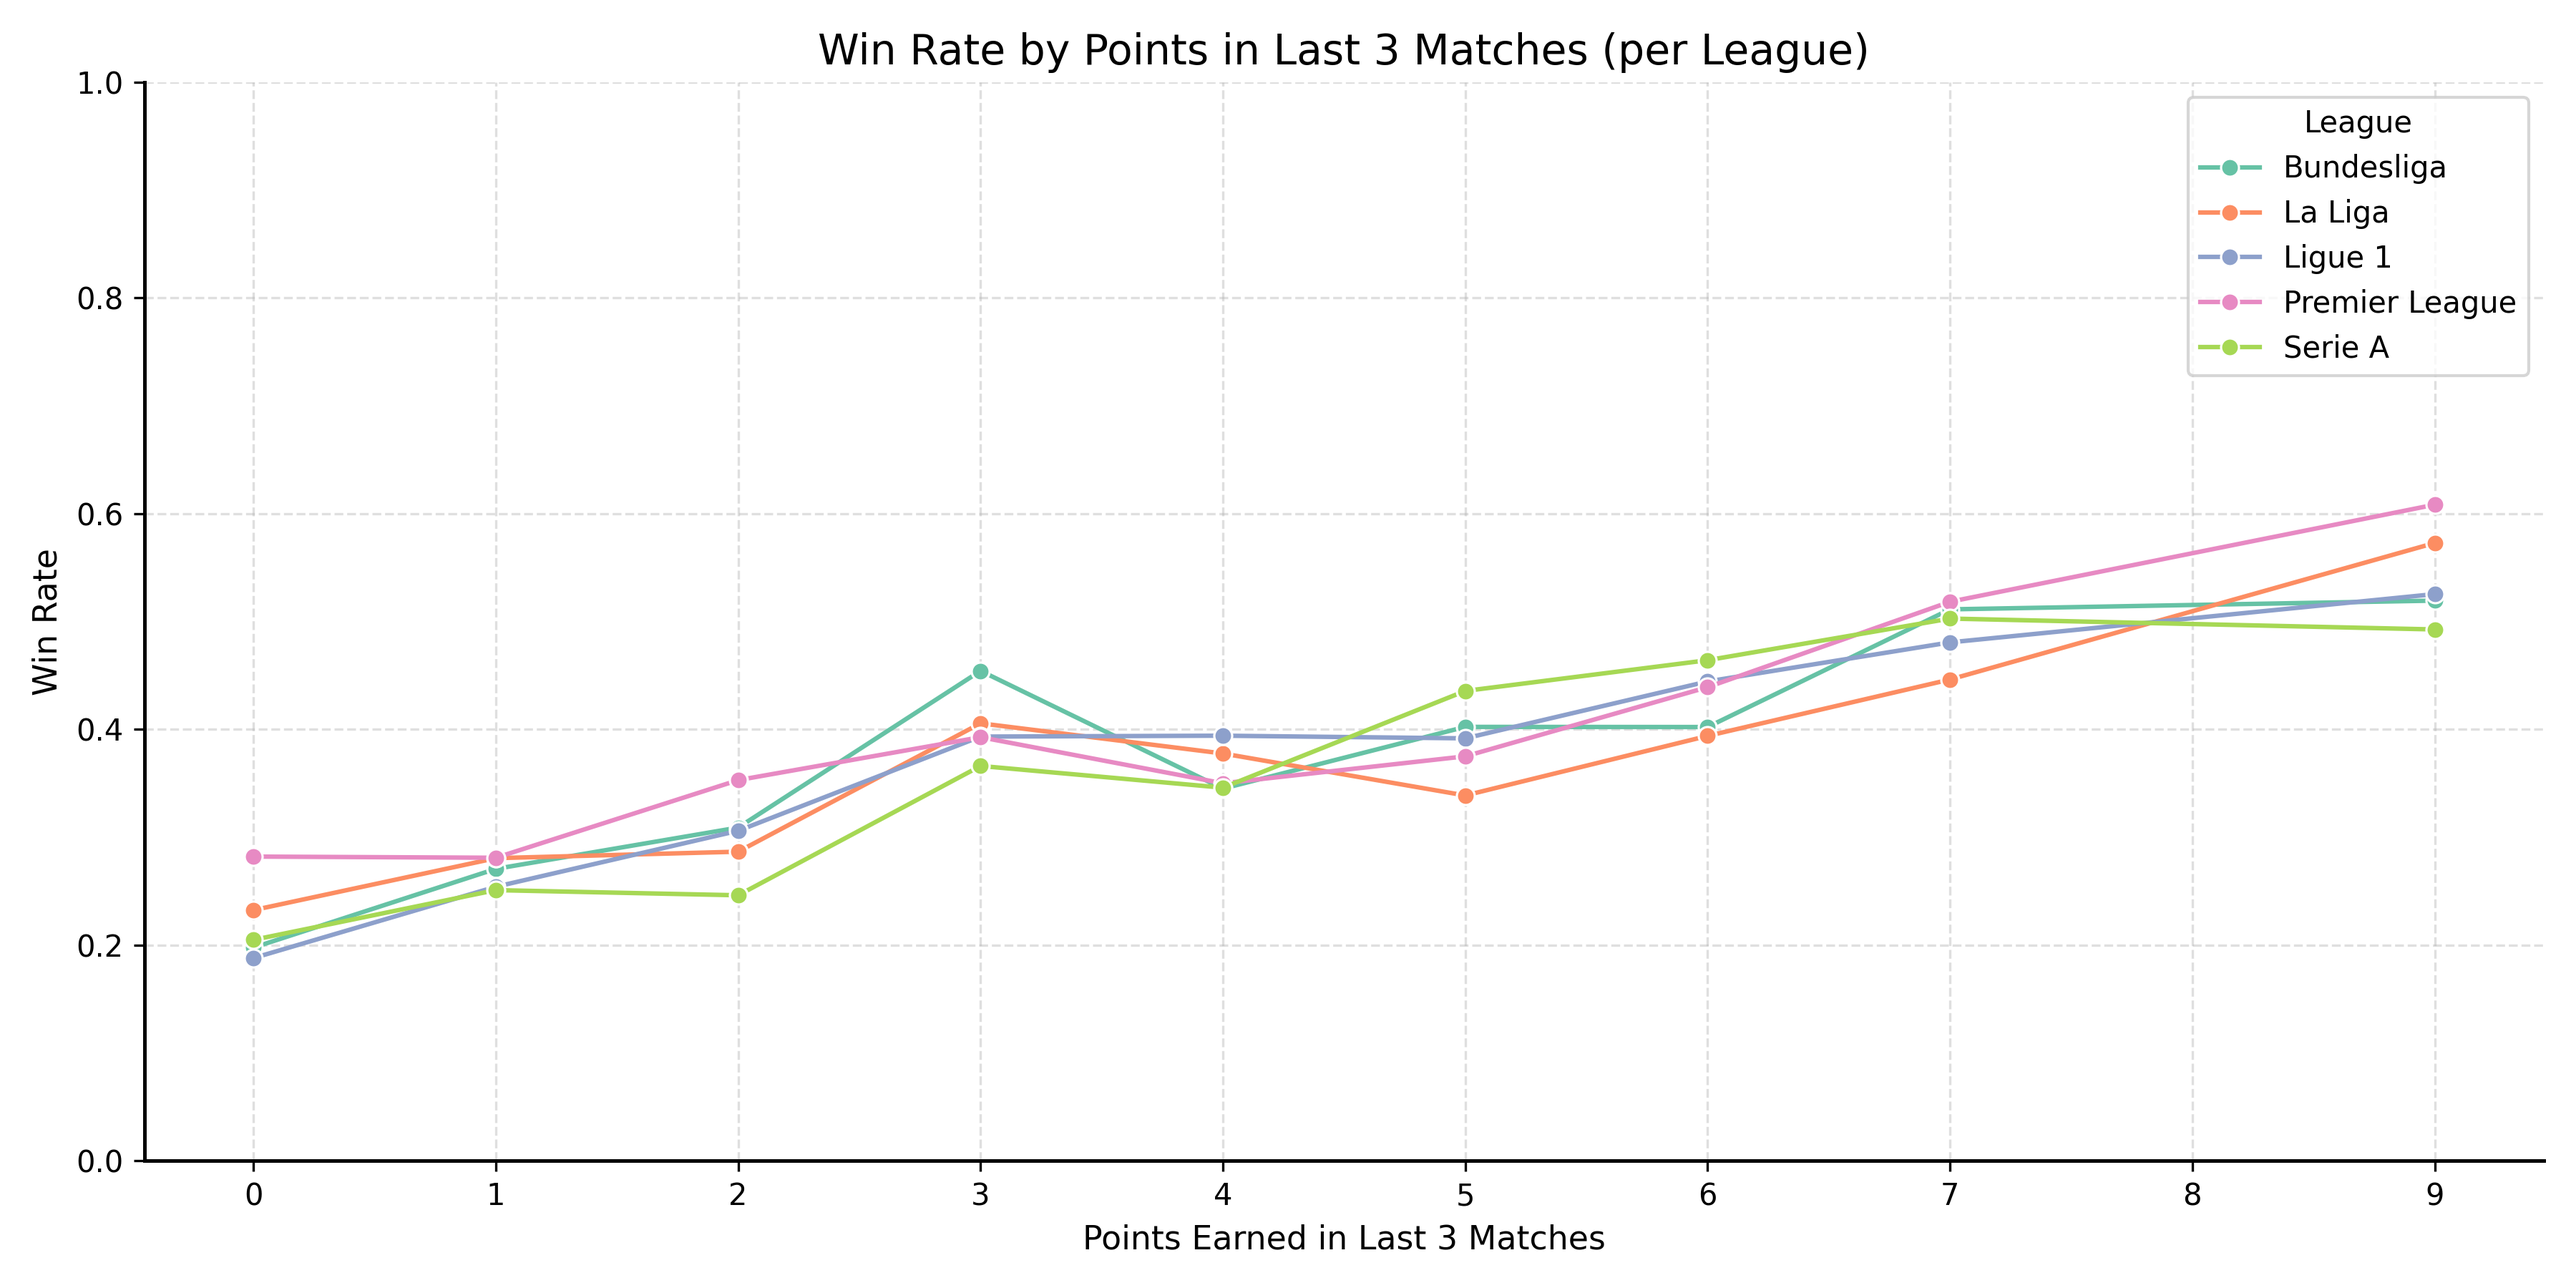
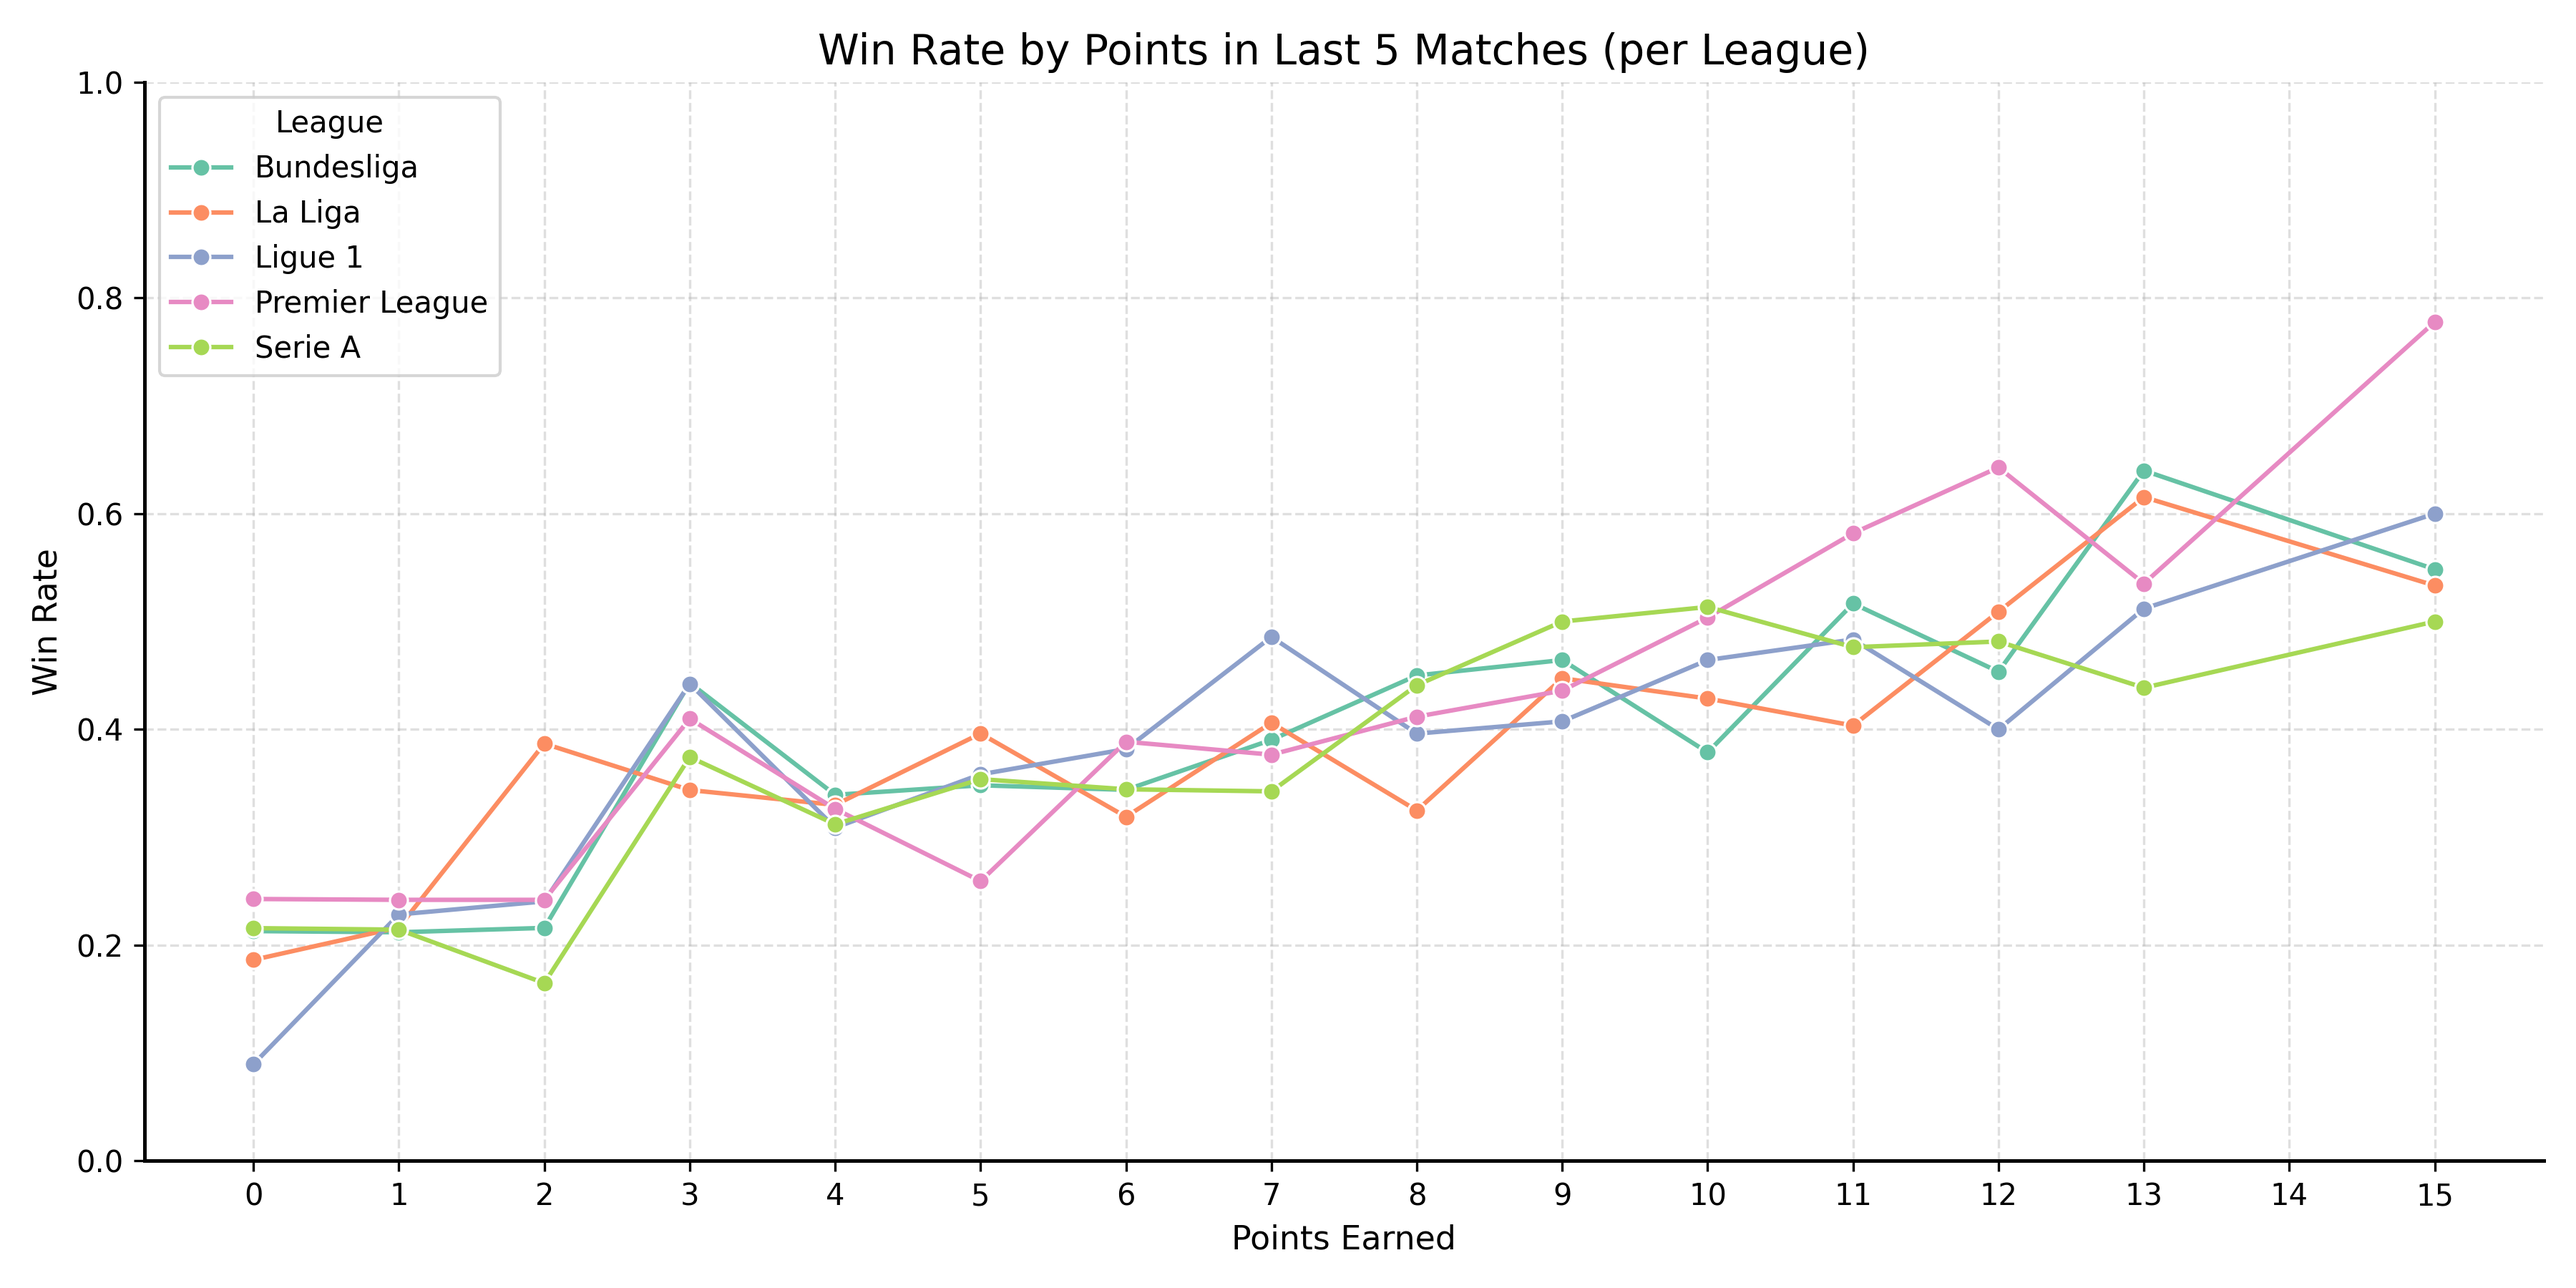
Visuals cleaned

diff --git a/opponent_visu.py b/opponent_visu.py
@@ -3,6 +3,7 @@ import matplotlib.pyplot as plt
 import seaborn as sns
 import pandas as pd
 import numpy as np
+from scipy.stats import mannwhitneyu
 import re
 
 # Apply global settings
@@ -117,6 +118,10 @@ def plot_violin_goals(df_melted, result_folder, figure_name):
     data_scored = [scored_home, scored_away]
     data_conceded = [conceded_home, conceded_away]
 
+    # Statistical tests
+    stat_scored, p_scored = mannwhitneyu(scored_home, scored_away, alternative="two-sided")
+    stat_conceded, p_conceded = mannwhitneyu(conceded_home, conceded_away, alternative="two-sided")
+
     # Create two subplots side by side
     fig, (ax1, ax2) = plt.subplots(ncols=2, figsize=(12, 6), sharey=True)
 
@@ -127,7 +132,6 @@ def plot_violin_goals(df_melted, result_folder, figure_name):
     ax1.set_xticklabels(["Home", "Away"])
     ax1.set_ylabel("Goals per Match")
 
-    # Assign consistent colors: index 0 = Home, index 1 = Away
     vp_scored['bodies'][0].set_facecolor("skyblue")    # Home
     vp_scored['bodies'][0].set_edgecolor("black")
     vp_scored['bodies'][0].set_alpha(0.7)
@@ -136,8 +140,14 @@ def plot_violin_goals(df_melted, result_folder, figure_name):
     vp_scored['bodies'][1].set_edgecolor("black")
     vp_scored['bodies'][1].set_alpha(0.7)
 
-    # Make the mean line red
     vp_scored['cmeans'].set_color("red")
+
+    # Annotate test results on left plot
+    ax1.text(
+        0.55, 0.1, f"U = {stat_scored:.1f}\np = {p_scored:.2f}*",
+        transform=ax1.transAxes, fontsize=9,ha='right', multialignment='left',
+        bbox=dict( boxstyle="round,pad=0.4", facecolor="lightgrey", edgecolor="dimgray")
+        )
 
     # -- Right subplot: Goals Conceded (Home, Away) --
     vp_conceded = ax2.violinplot(data_conceded, showmeans=True, showextrema=False)
@@ -155,7 +165,14 @@ def plot_violin_goals(df_melted, result_folder, figure_name):
 
     vp_conceded['cmeans'].set_color("red")
 
-    # -- Add a simple legend to the second subplot --
+    # Annotate test results on right plot
+    ax2.text(
+        0.58, 0.1, f"U = {stat_conceded:.1f}\np = {p_conceded:.2f}*",
+        transform=ax2.transAxes, fontsize=9,ha='right', multialignment='left',
+        bbox=dict( boxstyle="round,pad=0.4", facecolor="lightgrey", edgecolor="dimgray")
+        )
+
+    # -- Legend --
     home_patch = plt.Line2D([0], [0], marker='o', color='w', label='Home',
                             markerfacecolor='skyblue', markersize=10)
     away_patch = plt.Line2D([0], [0], marker='o', color='w', label='Away',
@@ -168,47 +185,39 @@ def plot_violin_goals(df_melted, result_folder, figure_name):
 
 
 def prob_winning_home_away(df_2023, result_folder, figure_name):
+    # 1. Prepare grouped data
+    df_home = df_2023.groupby('home_prev_points')['home_win'].mean().reset_index()
+    df_away = df_2023.groupby('away_prev_points')['away_win'].mean().reset_index()
 
-    # 1) Define binary outcomes for home/away wins
-    df_2023['home_win'] = np.where(df_2023['home_score'] > df_2023['away_score'], 1, 0)
-    df_2023['away_win'] = np.where(df_2023['away_score'] > df_2023['home_score'], 1, 0)
+    df_home['type'] = 'Home'
+    df_home.rename(columns={'home_prev_points': 'prev_points', 'home_win': 'win_rate'}, inplace=True)
 
-    # 2) Group by home_prev_points and compute mean of home_win & away_win
-    grouped_home = df_2023.groupby('home_prev_points')['home_win'].mean()
-    grouped_away = df_2023.groupby('away_prev_points')['away_win'].mean()
+    df_away['type'] = 'Away'
+    df_away.rename(columns={'away_prev_points': 'prev_points', 'away_win': 'win_rate'}, inplace=True)
 
-    # 3) Create side-by-side bar chart
-    x_vals = np.arange(len(grouped_home.index))  # numeric positions for each unique home_prev_points
-    bar_width = 0.4
+    # 2. Combine into one DataFrame for plotting
+    df_plot = pd.concat([df_home, df_away], ignore_index=True)
 
-    plt.figure(figsize=(8, 5))
-
-    # Plot home win probabilities (blue bars)
-    plt.bar(
-        x_vals - bar_width/2, 
-        grouped_home.values, 
-        width=bar_width, 
-        label="Home Win Probability",
-        color="skyblue"
+    # 3. Plot
+    plt.figure(figsize=(10, 6))
+    sns.lineplot(
+        data=df_plot,
+        x='prev_points',
+        y='win_rate',
+        hue='type',
+        marker='o',
+        palette={'Home': 'skyblue', 'Away': 'lightgreen'}
     )
 
-    # Plot away win probabilities (green bars)
-    plt.bar(
-        x_vals + bar_width/2, 
-        grouped_away.values, 
-        width=bar_width, 
-        label="Away Win Probability",
-        color="lightgreen"
-    )
-
-    # 4) Labeling
-    plt.xlabel("Points previous games vs. Team")
-    plt.ylabel("Probability of Win")
-
-    # Set x-ticks to match the home_prev_points categories
-    plt.xticks(x_vals, grouped_home.index)
-
-    plt.legend()
+    # 4. Style
+    plt.title("Win Rate by Previous Points Against Opponent", fontsize=14)
+    plt.xlabel("Points Earned in 2021–2022 vs Opponent")
+    plt.ylabel("Win Rate in 2023")
+    plt.ylim(0, 1)
+    plt.grid(True)
+    plt.legend(title="Game Type")
     plt.tight_layout()
-    plt.savefig(os.path.join(result_folder, figure_name))
+
+    # 5. Save
+    plt.savefig(os.path.join(result_folder, figure_name), dpi=300)
     plt.close()

diff --git a/opponent_match_stats.py b/opponent_match_stats.py
@@ -2,7 +2,7 @@ import pandas as pd
 import os 
 from opponent_visu import *
 from scipy.stats import mannwhitneyu
-from scipy.stats import shapiro
+
 
 # Directories
 project_dir = os.getcwd()
@@ -166,77 +166,57 @@ test_results.to_csv(os.path.join(result_folder, "tests_home_away.csv"), index=Fa
 
 # ====== PREVIOUS GAMES ANALYSES ====== #
 
-# 1) Filter for seasons 2021 and 2022
+# Filter for seasons 2021 and 2022
 df_prev = df_matchs[df_matchs['season'].isin([2021, 2022])].copy()
 
-# 2) Compute points for home side
-# 1 point if equal, else 0 points
-df_prev['points_home'] = np.where(
-    df_prev['home_score'] > df_prev['away_score'], 
-    3, 
-    np.where(df_prev['home_score'] == df_prev['away_score'], 1, 0)
+# Assign points for each match (home and away)
+df_prev['points_home'] = df_prev.apply(
+    lambda row: 3 if row['home_score'] > row['away_score'] else 1 if row['home_score'] == row['away_score'] else 0,
+    axis=1
+)
+df_prev['points_away'] = df_prev.apply(
+    lambda row: 3 if row['away_score'] > row['home_score'] else 1 if row['away_score'] == row['home_score'] else 0,
+    axis=1
 )
 
-df_prev['points_away'] = np.where(
-    df_prev['away_score'] > df_prev['home_score'], 
-    3, 
-    np.where(df_prev['away_score'] == df_prev['home_score'], 1, 0)
-)
-
-# 4) Unpivot so each match -> 2 rows: (team, opponent, points)
-#    Row 1 for home_team, Row 2 for away_team
-rows_list = []
-for idx, row in df_prev.iterrows():
-    rows_list.append({
-        'team': row['home_team'],
-        'opponent': row['away_team'],
-        'points': row['points_home']
+# Create long format \
+df_long = pd.concat([
+    df_prev[['home_team', 'away_team', 'points_home']].rename(columns={
+        'home_team': 'team', 'away_team': 'opponent', 'points_home': 'points'
+    }),
+    df_prev[['away_team', 'home_team', 'points_away']].rename(columns={
+        'away_team': 'team', 'home_team': 'opponent', 'points_away': 'points'
     })
-    rows_list.append({
-        'team': row['away_team'],
-        'opponent': row['home_team'],
-        'points': row['points_away']
-    })
-df_unpivot = pd.DataFrame(rows_list)
+])
 
-# 5) Group by (team, opponent) to get total points in 2021-22 matchups
-df_history = (
-    df_unpivot
-    .groupby(['team', 'opponent'], as_index=False)['points']
-    .sum()
-    .rename(columns={'points': 'points_2021_2022'})
-)
+# Total points per team vs opponent
+df_history = df_long.groupby(['team', 'opponent'], as_index=False)['points'].sum()
 
-# 1) Filter for 2023 matches
+# Filter 2023 matches
 df_2023 = df_matchs[df_matchs['season'] == 2023].copy()
 
-# 2) Merge to find how many points the HOME team (vs. AWAY team) got in 2021-2022
+# Merge historical points: home team's past record vs. opponent
 df_2023 = df_2023.merge(
     df_history, 
-    how='left', 
+    how='left',
     left_on=['home_team', 'away_team'], 
     right_on=['team', 'opponent']
-)
-# Column 'points_2021_2022' = total points home_team earned against away_team
-df_2023.rename(columns={'points_2021_2022': 'home_prev_points'}, inplace=True)
+).rename(columns={'points': 'home_prev_points'}).drop(columns=['team', 'opponent'])
 
-# Drop the merge helper columns
-df_2023.drop(columns=['team', 'opponent'], inplace=True)
-
-# 3) Merge again for AWAY side’s perspective
+# Merge historical points
 df_2023 = df_2023.merge(
-    df_history, 
-    how='left', 
-    left_on=['away_team', 'home_team'], 
+    df_history,
+    how='left',
+    left_on=['away_team', 'home_team'],
     right_on=['team', 'opponent']
-)
-# Column 'points_2021_2022' = total points away_team earned against home_team
-df_2023.rename(columns={'points_2021_2022': 'away_prev_points'}, inplace=True)
+).rename(columns={'points': 'away_prev_points'}).drop(columns=['team', 'opponent'])
 
-df_2023.drop(columns=['team', 'opponent'], inplace=True)
-
-# If some matchups never occurred in 2021-22, fill NaN with 0
+# Replace NaN with 0 for matchups with no history
 df_2023['home_prev_points'] = df_2023['home_prev_points'].fillna(0)
 df_2023['away_prev_points'] = df_2023['away_prev_points'].fillna(0)
+
+# Create binary outcome flags
+df_2023['home_win'] = (df_2023['home_score'] > df_2023['away_score']).astype(int)
+df_2023['away_win'] = (df_2023['away_score'] > df_2023['home_score']).astype(int)
 
 prob_winning_home_away(df_2023, result_folder, "prob_win_prevgames.png")

diff --git a/form_visu.py b/form_visu.py
@@ -122,7 +122,7 @@ def plot_yellows_saves_goals_conceded_heatmap(df_full, result_folder, filename):
         heatmap_data,
         annot=True,
         fmt=".2f",
-        cmap="coolwarm_r",
+        cmap="coolwarm",
         cbar_kws={'label': 'Avg Goals Conceded'},
         linewidths=0.5,
         linecolor='white'
@@ -146,7 +146,7 @@ def plot_win_rate_by_goals_scored_and_conceded(df_plot, result_folder, filename)
     sns.barplot(data=df_plot, x="goals", y="win_rate", hue="type", palette=["royalblue", "tomato"])
 
     plt.title("Win Rate by Goals Scored and Conceded (Last 3 Matches)")
-    plt.xlabel("Goals in Last 3 Matches")
+    plt.xlabel("Goals")
     plt.ylabel("Win Rate")
     plt.ylim(0, 1.1)
     plt.legend(title="")
@@ -161,13 +161,13 @@ def plot_win_rate_by_goals_scored_and_conceded(df_plot, result_folder, filename)
 def plot_win_rate_by_recent_points(df_full, result_folder, filename):
 
     # Group and compute win rate
-    grouped = df_full.groupby(["league", "points_last_3"])["win"].mean().reset_index()
+    grouped = df_full.groupby(["league", "points_last_5"])["win"].mean().reset_index()
 
     # Plot
     plt.figure(figsize=(12, 6))
     sns.lineplot(
         data=grouped,
-        x="points_last_3",
+        x="points_last_5",
         y="win",
         hue="league",
         marker="o",
@@ -175,10 +175,10 @@ def plot_win_rate_by_recent_points(df_full, result_folder, filename):
     )
 
     # Style
-    plt.title("Win Rate by Points in Last 3 Matches (per League)", fontsize=14)
-    plt.xlabel("Points Earned in Last 3 Matches")
+    plt.title("Win Rate by Points in Last 5 Matches (per League)", fontsize=14)
+    plt.xlabel("Points Earned")
     plt.ylabel("Win Rate")
-    plt.xticks(range(0, 10))  # Points can range from 0 to 9
+    plt.xticks(range(0, 16))  # Points can range from 0 to 9
     plt.ylim(0, 1)
     plt.legend(title="League")
     plt.grid(True)

diff --git a/form_stats.py b/form_stats.py
@@ -51,7 +51,7 @@ def compute_rolling_stat(df, stat_col, agg_func="sum", window=3):
     return result.drop(columns=["value"])
 
 
-def merge_rolling_stats(df, rolling_stats, stat_name, new_col_prefix):
+def merge_rolling_stats(df, rolling_stats, stat_name, new_col_prefix, window=3):
     
     # Make sure home and away match orders are available
     if "home_match_order" not in df.columns:
@@ -61,7 +61,7 @@ def merge_rolling_stats(df, rolling_stats, stat_name, new_col_prefix):
 
     # Merge home stat
     df = df.merge(
-        rolling_stats.rename(columns={f"{stat_name}_last_3": f"home_{new_col_prefix}"}),
+        rolling_stats.rename(columns={f"{stat_name}_last_{window}": f"home_{new_col_prefix}"}),
         left_on=["home_team", "season", "home_match_order"],
         right_on=["team", "season", "match_order"],
         how="left"
@@ -69,7 +69,7 @@ def merge_rolling_stats(df, rolling_stats, stat_name, new_col_prefix):
 
     # Merge away stat
     df = df.merge(
-        rolling_stats.rename(columns={f"{stat_name}_last_3": f"away_{new_col_prefix}"}),
+        rolling_stats.rename(columns={f"{stat_name}_last_{window}": f"away_{new_col_prefix}"}),
         left_on=["away_team", "season", "away_match_order"],
         right_on=["team", "season", "match_order"],
         how="left"
@@ -211,7 +211,7 @@ plot_yellows_saves_goals_conceded_heatmap(combined, result_folder, "defense_form
 # ====== POINTS FORM - WIN RATE BY LEAGUE  ====
 
 rolling_stats = compute_rolling_stat(df, "points", agg_func="sum", window=5)
-df = merge_rolling_stats(df, rolling_stats, stat_name=stat, new_col_prefix=f"{stat}_last_5")
+df = merge_rolling_stats(df, rolling_stats, stat_name="points", new_col_prefix=f"points_last_5", window=5)
 
 print(df.columns)
 

diff --git a/regression_pca.py b/regression_pca.py
@@ -1,0 +1,20 @@
+import os
+import pandas as pd
+
+# Directories
+project_dir = os.getcwd()
+data_folder = os.path.join(project_dir, "datasets")
+result_folder = os.path.join(project_dir, "results_final", "2_opponent_stats")
+
+# ====== IMPORT DATA ======
+df_matchs = pd.read_csv(os.path.join(data_folder, "matches.csv"))
+df_tables = pd.read_csv(os.path.join(data_folder, "table_leagues.csv"))
+df_teams = pd.read_csv(os.path.join(data_folder, "stats_teams.csv"))
+
+print(df_matchs.columns)
+
+regression_features_df = df_matchs[['league', 'season', 'matchday', 'date', 'home_team', 'home_score', 'away_score', 'away_team']]
+
+# ====== CREATE FEATURES ======
+
+# 1. ATTACK POTENTIAL
